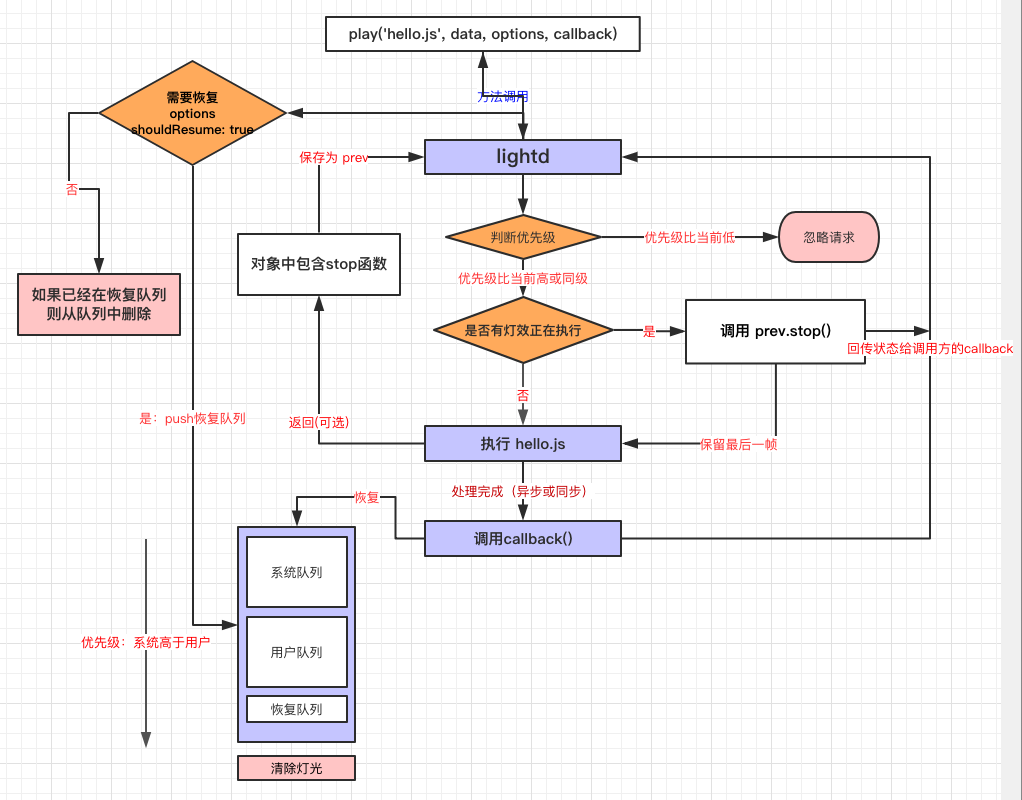
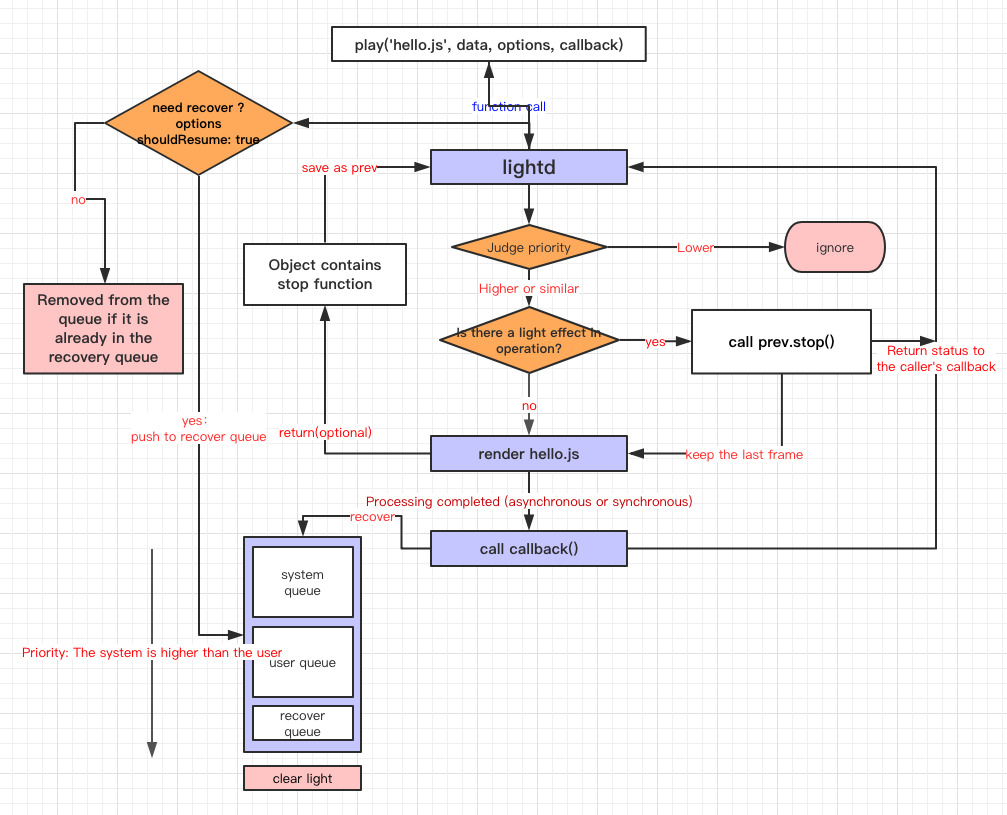
lightd english documents

diff --git a/en/guidance/03-lightd.md b/en/guidance/03-lightd.md
@@ -4,12 +4,12 @@
 
 YODAOS uses the lightd service to manage the lights, ie the app wants to display the lighting effects, and the light is delegated to the agent for execution, instead of recommending the app to operate the lights directly. The reasons for this are as follows:
 
-- Convenient for developers to write complex lighting effects. Lightd provides an abstract library of effects effects, and developers can easily combine effects with the effects library and execute it in sequence.
+- Convenient for developers to write complex lighting effects. Lightd provides an abstract library of effects that developers can easily combine and execute in order.
 - Resource management. If you only have one kind of lighting effect, then operating the LED directly is the easiest. If you have 2 kinds of lighting effects, then you need an extra code to guarantee the order of their execution. If you have more than 3 lighting effects, then your code is known to you except God.
 - js is asynchronous, and at any time, if there are 2 programs that operate the lights at the same time, there will be problems. If your lighting effect is an animation that transitions over time, you must manually interrupt them when you perform the second lighting effect.
 - Using transition animations means that you are using timers. To manually interrupt them, you must save the handles of these timers. You will find that your code is full of handles to these timers and cancel these timers. The code, while the real light effect code is only a small part.
 - Use the effects library provided by lightd, all of which are managed by effects. Developers don't have to worry about having 2 effects executing at the same time, without managing timers.
-- Modular. Lightd saves each light effect file as a separate .js file, which provides less code coupling, higher maintainability and readability, and no need to worry about variable duplicate names. Each file is a separate file. Scope.
+- Modular. Lightd saves each light effect file as a separate .js file, which provides less code coupling, higher maintainability and readability, and no need to worry about variable duplicate names. Each file is a separate scope.
 - Recovery mechanism. Lightd can restore lighting at the right time. If the banned wheat light effect is currently being played, a volume light effect suddenly comes, and the volume light effect needs to be restored. Lightd will automatically help you recover.
 - Priority mechanism. Lightd ensures that high priority lights are executed first. High-priority lighting effects always take precedence, and lighting developers don't have to worry about being interrupted, even if they are interrupted, there is a recovery mechanism. The system light effect priority is configured by the configuration file, and the user light effect priority is dynamically adjustable.
 
@@ -63,12 +63,12 @@ User-written third-party lighting effects files should be placed in the applicat
 
 Lighting design follows the following principles:
 
-1. When high priority lights are coming, low priority lights are not displayed, low priority lights are not displayed. If the low priority lights need to be restored, they are placed in the corresponding recovery queue.
-2. When the same level of light A, when the same level of light B is coming, the light B will interrupt the light A.
-3. When a low priority light comes in, a high priority light will interrupt the low priority light.
-4. The current light is executed and the first one is restored from high to low according to the priority in the recovery queue.
-5. The built-in requestAnimationFrame timer is required in the lighting effect.
-6. The system light effect priority, regardless of size, is always higher than the user light effect priority.
+1. When high priority lights are coming, low priority lights are not displayed. If the low priority lights need to be restored, they are placed in the corresponding recovery queue.
+2. When the same level of light A is played, the same level of light B is coming, then the light B will interrupt the light A.
+3. When a low priority light is played and a high priority light is coming, the high priority light interrupts the low priority light.
+4. When the current light is executed, the first one is restored from the high priority to the low priority in the recovery queue.
+5. The light effect should use the built-in requestAnimationFrame function to operate the timer.
+6. The system light effect priority is always higher than the user light effect priority.
 
 According to the performance of the light effect can be divided into two types of lighting effects:
 
@@ -87,7 +87,7 @@ The distribution network lighting effect belongs to the second category, that is
 
 Developers should write in accordance with the above two types of specifications when writing lighting effects.
 
-## Light effect writing method
+## How to create a light effect
 
 As mentioned before, the light effect can be divided into two categories according to the effect.
 
@@ -99,10 +99,10 @@ For these 2 types of lights, the development process is the same, except for 2 p
 - For the first category: Because it will definitely end in a certain period of time, and you need to restore other lights after the end, you should call the callback function after the lighting is finished, telling the system that you are done.
 - For the second category: because of the need to restore, and never stop, so this kind of light does not need to call the callback function, and when called, you need to have the property shouldResume: true.
 
-### ?Writing lights that don't need to be restored
+### Create lights that don't need to be restored
 
 Just as hello world is used as an introductory tutorial in most languages, there is also hello world in hardware programming, which is called hello LED, which lights up an LED. Now let's make a hello LED with lightd. The difference is that we have to light a circle of LED lights and then automatically go out after 500 ms.
-New file: /opt/light/hello.js
+create a new file: /opt/light/hello.js
 
 The contents of hello.js are as follows:
 
@@ -145,14 +145,14 @@ Once the callback is called, the light object is set to be in an unusable state.
 
 ** There are a few points to note: **
 
-1. After setting the lighting effect, you need to call the render function to refresh. The calling frequency of the render function is limited by hardware. Currently, the recommended minimum is 35-40ms. If it is lower than this time, frame loss will occur.
+1. After setting the lighting effect, you need to call the render function to refresh. The calling frequency of the render function is limited by hardware. Currently, the recommended minimum is 35-40ms. If it is less than this time, frame loss will occur.
 2. After lightd calls the stop function, all resources should be released and the lights can no longer be manipulated. This indicates that another program is operating the light.
 3. A light file should try to do only one effect. If multiple effects are needed, it should be split into multiple files and then executed in the callback.
-4. lightd When switching multiple lighting effects, it will automatically keep the last frame of the last light and leave it to the next light, so switching multiple lights will not cause flickering. We call this: transition
+4. Lightd automatically keep the last frame of the last light and leave it to the next light when switching multiple lights, so switching multiple lights will not cause flickering. We call this: transition.
 
-### Writing lights that need to be restored
+### Create lights that need to be restored
 
-We have written the simplest lighting effect above, now let's write a light that will automatically recover: the breathing light. It will always have a breathing effect, and if it is interrupted by other lights, the breathing light will automatically recover, then we manually remove it.
+We have created one of the simplest lighting effect above, now let's create a light that will automatically recover: the breathing light. It will always have a breathing effect, and if it is interrupted by other lights, the breathing light will automatically recover, then we manually stop it.
 
 ```js
 "use strict"
@@ -173,18 +173,19 @@ module.exports = function hello (light, data, callback) {
   }
 
   render()
-
   // Note: This type of light does not need to call callback
+
   return {
-    // This hook function is called when it is interrupted,
-    // if we return the stop function.
+    // This hook function is called when it is interrupted, if we return the stop function.
     // This stop function is optional if you don't need to care about interrupt events.
-    stop: function() {}
+    stop: function() {
+      // we are doing nothing here.
+    }
   }
 }
 ```
 
-The caller calls this light via `light.play('breathing.js', data, { shouldResume: true }, callback)` to tell the system that the light needs to be restored. If other lights are executed in the middle, the light will also be automatically restored. Unless the user uses `light.stop('breathing.js')` to clear the recovered lights. Call the light that needs to be restored, because the callback is not called in the light, so in the caller's view, the callback will be called back immediately when the light effect is started.
+The caller calls this light via `light.play('breathing.js', data, { shouldResume: true }, callback)` to tell the system that the light needs to be restored. If other lights are executed in the middle, the light will also be automatically restored. Unless the user uses `light.stop('breathing.js')` to clear the recovered lights. In the caller's view, the callback will be called back immediately when the light effect is started because the callback is not called in the light.
 
 Above we used the `breathing` effect function, which is a built-in breathing effect, whose function is defined as follows:
 
@@ -219,9 +220,9 @@ The above effect does not produce the expected animation, as it is almost instan
 
 ### Custom lighting effects animation
 
-Built-in implementation of breathing lights and gradient animation, let's talk about how to implement custom lighting effects animation.
+Lightd implements breathing lights and gradient effects, let's talk about how to implement custom lighting effects animation.
 
-The animation principle of the light is the same as the animation principle of the screen. We can use an LED light as a pixel point. We can refresh the brightness value of the LED light at a suitable rate to see the animation effect.
+The animation principle of the light is the same as the animation principle of the screen. We can use an LED light as a pixel point. We can refresh the color value of the LED light at a suitable rate to see the animation effect.
 
 Let's make a simple gradient animation: the brightness is ramped from 0 to 255.
 
@@ -232,7 +233,7 @@ module.exports = function (light, data, callback) {
     light.fill(currentColor, currentColor, currentColor)
     currentColor++
     if (currentColor > 255) {
-      Return
+      return callback()
     }
     light.requestAnimationFrame(render, 33)
   }
@@ -242,7 +243,7 @@ module.exports = function (light, data, callback) {
 
 The above is the simplest animation, the brightness of all lights is changed from 0 to 255, and the brightness is refreshed every 33 milliseconds. All animations are based on this principle.
 
-In fact, the built-in `ransition` and `breathing` are also implemented this way, except that the color channel they calculated is RGB and the FPS and ? duration parameters are added.
+In fact, the build-in transitions and breathing are also implemented in this way, except that the color channel they calculate is rgb, fps and duration.
 
 ## Adapting different hardware
 
@@ -255,19 +256,19 @@ For the problem of the adapter light, the light object has the ledsConfig proper
 ```js
 module.exports = function (light, data, callback) {
   
-  light.ledsConfig
+  var ledsConfig = light.ledsConfig
 }
 ```
 
-- `ledsConfig.leds` returns the number of lights
-- `ledConfig.format` returns the number of channels in the light, now defaults to 3
-- `ledConfig.maximumFps` Returns the time required to refresh a frame, in milliseconds, indicating that at least this time is required between refreshing 2 frames, otherwise a frame loss will be sent.
+- `ledsConfig.leds` the number of lights
+- `ledConfig.format` the number of channels in the light, now defaults to 3
+- `ledConfig.maximumFps` the time required to refresh a frame, in milliseconds, indicating that at least this time is required between refreshing 2 frames, otherwise frame loss will occur.
 
 ## Debug light effect
 
 Under the lightd service directory, there is a tests/lightMethod.js file that encapsulates a method that directly calls the api provided by lightd. All apis can view the lightMethod.js file, where each api has detailed comments and function declarations.
 
-Here are a few common examples.
+The following are common examples.
 
 ### Play light effect
 
@@ -289,7 +290,8 @@ Save the above code as a .js file and execute it to see the light effect.
 ### View lightd log
 
 At present, debugging lights is not enough to look at by eye, especially when multiple lights are switched.
-`logread -f -e nice | grep lightd` or `logread -f -e nice | grep lightService`
+
+Use `logread -f -e nice | grep lightd` or `logread -f -e nice | grep lightService` to view lightd log.
  
 Lightd is the log of the light service processing request, which can be viewed by all App calls.
 The lightService is a specific processing logic that looks at the actions being performed at each step.

diff --git a/en/yodaos-source/customization/03-light.md b/en/yodaos-source/customization/03-light.md
@@ -2,7 +2,7 @@
 
 ## Overview
 
-The light is divided into two parts, one is the upper part of the lightd application frame, and the other is the underlying rendering part, which is the part of the document that will be described.
+The light is divided into two parts, one is the upper part of the lightd application frame, and the other is the underlying rendering part, which is the part of this document that will be described.
 The upper application framework abstracts the apis that operate the lights. The user only needs to know how many lights are there and then operate the lights. By default each light is in RGB format.
 But in this part of the hardware, in addition to knowing how many lights there are, you also need to know the format of the lights. For example, above the Me is the RGB light, above the NABOO is the monochrome PWM light.
 
@@ -16,7 +16,7 @@ The problems that need to be described in this part of the document are mainly t
 
 The built-in lighting effects file is stored under /opt/light/ by default and can be configured in the lightd service.
 
-The system built-in lighting effect file path configuration method:
+Configure the path of the system build-in lighting effect file:
 
 1. Edit the file: `/usr/yoda/services/lightd/service.js`.
 2. Configure the value of this field `var LIGHT_SOURCE = '/opt/light/'` Note that the last side requires a slash `/`.
@@ -28,9 +28,9 @@ From the configuration file, the lighting effect files can be divided into two t
 
 ### System Light Effect File Definition
 
-The system light effect is configured in `${LIGHT_SOURCE}/config.json`. The content of this file is the json object. The key saves the relative path of the system's lighting effect. The `config.json` file is the relative path and the value is the priority of the light. The smaller the priority number of the system lighting effect, the higher the priority, that is, the highest.
+The system light effect is configured in `${LIGHT_SOURCE}/config.json`. The content of this file is the json object. The key saves the relative path of the system's lighting effect. The value is the priority of the light. The smaller the priority number of the system lighting effect, the higher the priority. That is 0 is the highest.
 
-The system light effect maintains a layer layer, which is an array that holds all the lights to be restored. There can only be one light effect per layer, and the number of layers indicates the priority. That is, if a system light is to be restored, the light will be saved to the system layer. Look for it from the 0th floor when recovering. The maximum number of layers in the layer is determined by the largest number in the config.json file.
+The system light effect maintains a layer, which is an array that holds all the lights to be restored. There can only be one light effect per layer, and the number of layers indicates the priority. That is, if a system light is to be restored, the light will be saved to the system layer. Look for it from the 0th floor when recovering. The maximum number of layers in the layer is determined by the largest number in the config.json file.
 
 The following is an example of the contents of a `config.json` file:
 
@@ -61,16 +61,16 @@ All non-system lighting effects are defined as user lighting effects. That is, e
 
 The user's lighting effect does not need to be defined, and there is no pre-declared priority, so its priority is the runtime, which is dynamically specified by the caller.
 
-User lighting also has a layer layer. Only this layer is the smaller the number, the lower the priority, the default is 0. When recovering, look up from the largest layer until the 0th floor. The maximum number of layers is configured by the lightd service. If the call is out of range, it is automatically limited to the range. For example, if the maximum range is exceeded, the default is the maximum number of layers.
+User lighting also has a layer. Only this layer is the smaller the number, the lower the priority, the default is 0. When recovering, look up from the largest layer until the 0th floor. The maximum number of layers is configured by the lightd service. If the call is out of range, it is automatically limited to the range. For example, if the maximum range is exceeded, the default is the maximum number of layers.
 
-The maximum number of layers in the user layer layer configuration method:
+Configure the maximum number of layers in the user layer:
 
 1. Edit the file: `/usr/yoda/services/lightd/service.js`
 2. Configure the value of this field `var maxUserspaceLayers = 3` Note that you need an integer greater than 0.
 
 The higher the priority number of the user's lighting effect, the higher the priority.
 
-> User Light Effect Priority Why is 0? Minimum?
+> User Light Effect Priority Why is 0 Minimum?
 
 Suppose, if 0 is the maximum, then when I call a user light effect, how much priority should I pass?
 The priority of the user's lighting effect is dynamically specified at runtime. If you want to call a higher priority light effect, the number will naturally increase by 1, so it starts from 0.
@@ -86,14 +86,14 @@ The lightd is divided into two parts:
 
 ### Led Data Structure
 
-From the perspective of the JavaScript application framework, the default is now the RGB data format. Even the monochrome PWM lamp is used as the RGB operation. The underlying rendering library automatically converts the RGB to a single when the data stream is passed to the hardware rendering. Color value. The data format is arranged in RGB RGB... order. The value of each channel is an 8-bit integer. That is, the value of each channel is between 0-255.
+From the perspective of the JavaScript application framework, the default is now the RGB data format. Even the monochrome PWM lamp is used as the RGB operation. The underlying rendering library automatically converts the RGB to a single when the data stream is passed to the hardware rendering. The data format is arranged in RGB RGB... order. The value of each channel is an 8-bit integer. That is, the value of each channel is between 0-255.
 
 Let's take the hardware with 5 RGB lights as an example to see how the real data is represented in lightd.
 
 5 lights, each of which is an RGB channel, so the length of the `frame` frame is 5 * 3 = 15, which is 15 bytes, so the real data structure is:
 
 ```c++
-Char* frame = new char[5 * 3]
+char* frame = new char[5 * 3]
 ```
 
 > noun explanation: frame
@@ -101,7 +101,7 @@ Char* frame = new char[5 * 3]
 
 ## Hardware Layer Workflow
 
-####LED HAL Parameter Configuration
+#### LED HAL Parameter Configuration
 
 - LED driver attribute classification
 Make menuconfig -> rokid -> Hardware Layer Solutions ->
@@ -112,21 +112,25 @@ The number of led lights can be controlled by `BOARD_LED_NUMS`
 
 -------
 
-####LED HAL Code Logic
+#### LED HAL Code Logic
 - Standard android hardware layer architecture, code directory: `kamino18/hardware/modules/leds/`
 - HAL layer code basic format
-       Static struct hw_module_methods_t led_module_methods = {
-           .open = led_dev_open,
-       };
 
-       Struct hw_module_t HAL_MODULE_INFO_SYM = {
-           .tag = HARDWARE_MODULE_TAG,
-           .module_api_version = LEDS_API_VERSION,
-           .hal_api_version = HARDWARE_HAL_API_VERSION,
-           .id = LED_ARRAY_HW_ID,
-           .name = "ROKID PWM LEDS HAL",
-           .methods = &led_module_methods,
-       };
+```c
+ Static struct hw_module_methods_t led_module_methods = {
+     .open = led_dev_open,
+ };
+
+ Struct hw_module_t HAL_MODULE_INFO_SYM = {
+     .tag = HARDWARE_MODULE_TAG,
+     .module_api_version = LEDS_API_VERSION,
+     .hal_api_version = HARDWARE_HAL_API_VERSION,
+     .id = LED_ARRAY_HW_ID,
+     .name = "ROKID PWM LEDS HAL",
+     .methods = &led_module_methods,
+ };
+```
+
 - Calling method of HAL layer:
 Hw_get_module(LED_ARRAT_HW_ID, (const struct hw_module_t **)&module);
 - Processing application layer sent RGB data
